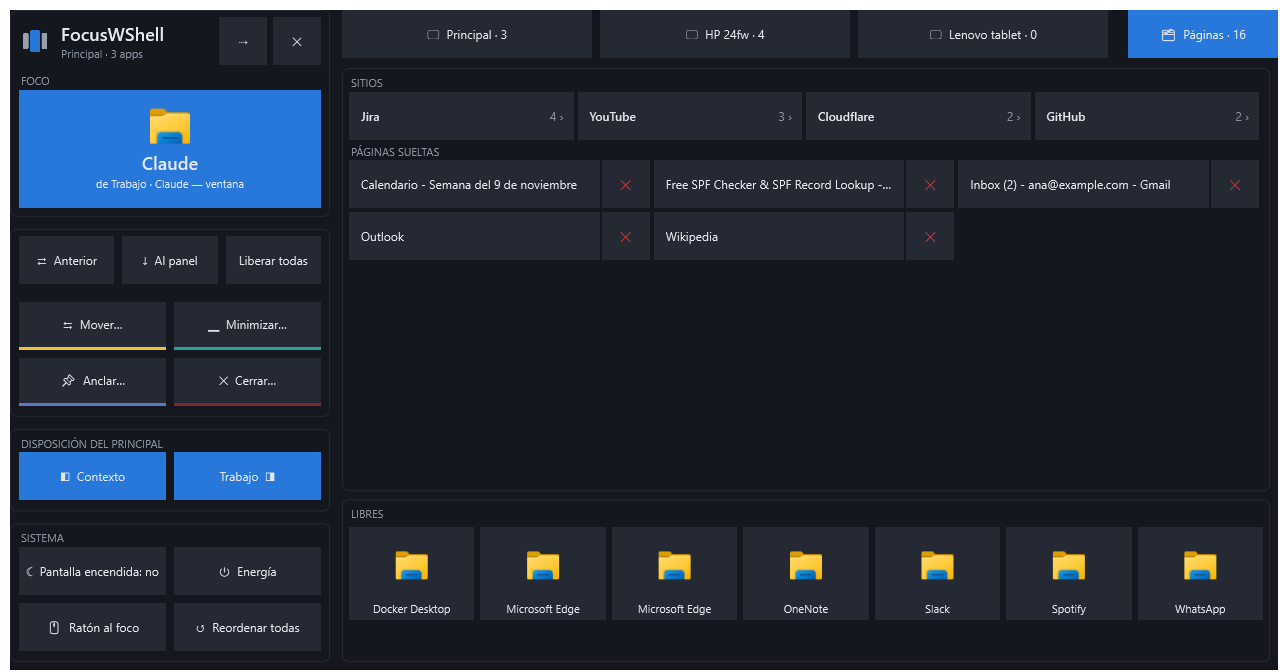
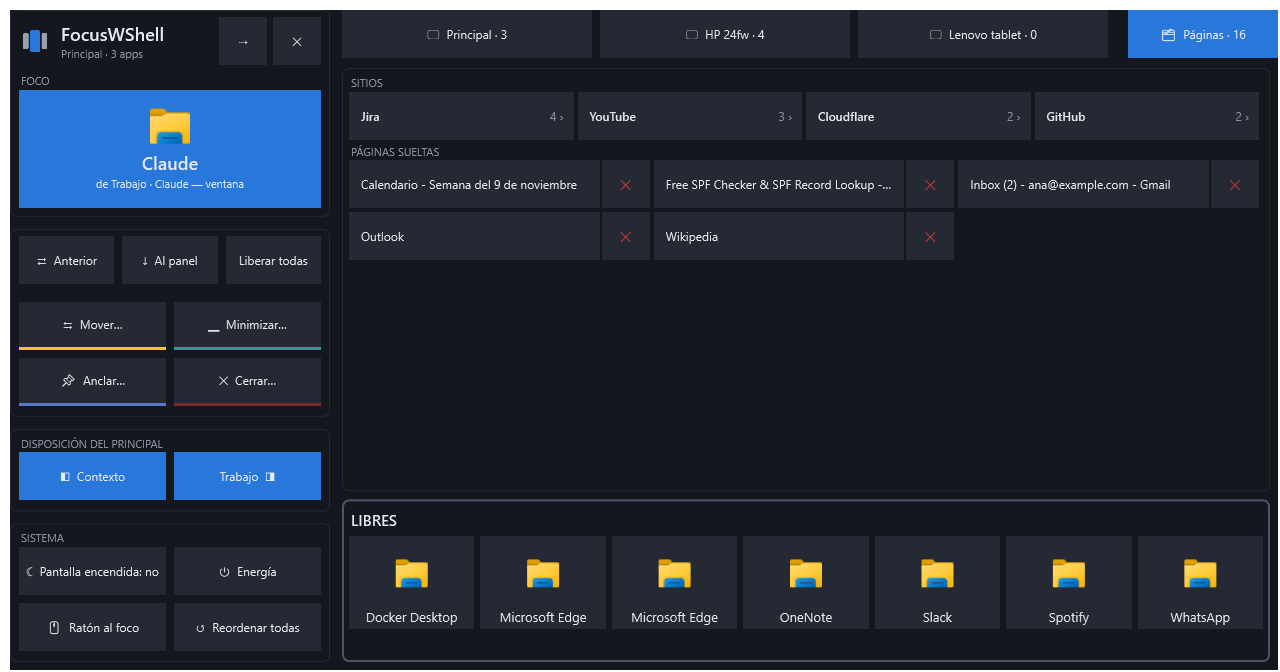
Alfa 0.3.1: las apps vuelven a sus paneles tras reiniciar
Versión 0.3.1-alpha, notas del release, CHANGELOG y capturas del deck renovadas en el sitio (bordes y letras nuevos).

diff --git a/.github/release-notes/v0.3.1-alpha.md b/.github/release-notes/v0.3.1-alpha.md
@@ -1,0 +1,69 @@
+**FocusWShell 0.3.1-alpha: your apps come back to their panels after restarting Windows.** [Español más abajo](#español).
+
+> **It moves your windows.** If anything goes wrong, **Ctrl+Alt+Shift+Backspace** puts every window back where it was, at any time.
+
+## What's fixed
+
+### After restarting Windows
+
+- **Apps go back to their panels.** When Windows shuts down, it closes your apps before FocusWShell, and FocusWShell kept saving the session with fewer and fewer apps. Now it saves the session as soon as shutdown starts, and not again. This works whether you shut down from Windows or from **Power** in the deck.
+- **Slow apps are not forgotten.** Apps that take a while to open, apps in the tray, and apps that swap their window while they start (like Docker Desktop) keep their panel.
+- **No more "FocusWShell was not closed properly"** after a restart. It only asks when there really are windows out of place.
+
+### The tablet's panels
+
+A tablet connected with **Apollo** gets a new ID every time it connects, so FocusWShell took it for a new monitor and its panels waited for the old one. Now a monitor of the same model that comes back with another ID is recognized, and its panels and the deck return to it. With two identical monitors, it does not guess.
+
+### Web apps from Chrome or Edge
+
+Apps installed from Chrome or Edge, like **Google Chat**, show with their own name instead of "Google Chrome". Tapping one when it's closed opens the app, not the browser.
+
+### The deck, easier to read
+
+Panel borders are easier to see, and panel and app names are bigger.
+
+## Install or update
+
+1. Download `FocusWShell-0.3.1-alpha-win-x64.zip` below.
+2. Extract it to a **new** folder and double-click **install.cmd**. If an earlier version is open, the installer closes it first (putting your windows back) and keeps your settings.
+
+Windows 10 (2004) or 11, 64-bit. No administrator rights; .NET is included. The files are not signed: if Windows shows *"Windows protected your PC"*, choose **More info → Run anyway**. Check the download with the `.sha256` file.
+
+New to FocusWShell? Start with **[Getting started](https://proteo5.github.io/FocusWShell/first-steps/)**. Known limitations: see [Known limitations](https://proteo5.github.io/FocusWShell/limitations/). Please report problems and ideas in [Issues](https://github.com/proteo5/FocusWShell/issues).
+
+---
+
+## Español
+
+**FocusWShell 0.3.1-alpha: tus apps vuelven a sus paneles después de reiniciar Windows.**
+
+> **Mueve tus ventanas.** Si algo sale mal, **Ctrl+Alt+Mayús+Retroceso** devuelve todas las ventanas a su sitio, en cualquier momento.
+
+### Correcciones
+
+#### Después de reiniciar Windows
+
+- **Las apps vuelven a sus paneles.** Al apagar, Windows cierra tus apps antes que FocusWShell, y FocusWShell seguía guardando la sesión con cada vez menos apps. Ahora la guarda en cuanto empieza el apagado, y ya no otra vez. Funciona igual si apagas desde Windows o desde **Energía** en el deck.
+- **Las apps lentas no se olvidan.** Las que tardan en abrirse, las de la bandeja y las que cambian de ventana al arrancar (como Docker Desktop) conservan su panel.
+- **Ya no sale «FocusWShell no se cerró adecuadamente»** después de un reinicio. Sólo pregunta cuando de verdad hay ventanas fuera de su sitio.
+
+#### Los paneles de la tablet
+
+Una tablet conectada con **Apollo** estrena identificador en cada conexión, así que FocusWShell la tomaba por un monitor nuevo y sus paneles se quedaban esperando a la anterior. Ahora reconoce un monitor del mismo modelo que vuelve con otro identificador, y le devuelve sus paneles y el deck. Con dos monitores iguales, no adivina.
+
+#### Apps web de Chrome o Edge
+
+Las apps instaladas desde Chrome o Edge, como **Google Chat**, salen con su nombre en lugar de «Google Chrome». Si está cerrada, al tocarla se abre la app, no el navegador.
+
+#### El deck, más fácil de leer
+
+Los bordes de los paneles se ven más, y los nombres de paneles y apps son más grandes.
+
+### Instalar o actualizar
+
+1. Descarga `FocusWShell-0.3.1-alpha-win-x64.zip` más abajo.
+2. Descomprímelo en una carpeta **nueva** y haz doble clic en **install.cmd**. Si hay una versión anterior abierta, el instalador la cierra antes (devolviendo tus ventanas) y conserva tu configuración.
+
+Windows 10 (2004) u 11, de 64 bits. Sin permisos de administrador; .NET va incluido. Los archivos no están firmados: si Windows muestra *«Windows protegió tu PC»*, elige **Más información → Ejecutar de todas formas**. Comprueba la descarga con el archivo `.sha256`.
+
+¿Nuevo en FocusWShell? Empieza por **[Primeros pasos](https://proteo5.github.io/FocusWShell/es/primeros-pasos/)**. Limitaciones conocidas: ver [Limitaciones conocidas](https://proteo5.github.io/FocusWShell/es/limitaciones/). Reporta problemas e ideas en [Issues](https://github.com/proteo5/FocusWShell/issues).

diff --git a/CHANGELOG.md b/CHANGELOG.md
@@ -4,13 +4,17 @@ All notable changes to FocusWShell. Each release has its notes in [`.github/rele
 
 Todos los cambios importantes de FocusWShell. Cada versión tiene sus notas en [`.github/release-notes/`](.github/release-notes/).
 
-## Unreleased / Sin publicar
+## 0.3.1-alpha
+
+Your apps come back to their panels after restarting Windows. / Tus apps vuelven a sus paneles después de reiniciar Windows.
 
 - Fixed: after restarting Windows, apps didn't go back to their panels. The session is now saved when shutdown starts, and not again while Windows closes the apps; it also keeps the apps that take a while to open, the ones in the tray, and the ones that swap their window at startup (Docker Desktop). / Corregido: tras reiniciar Windows, las apps no volvían a sus paneles. La sesión se guarda al empezar el apagado, y no otra vez mientras Windows cierra las apps; además conserva las apps que tardan en abrirse, las de la bandeja y las que cambian de ventana al arrancar (Docker Desktop).
 - Fixed: the panels of a tablet connected with Apollo disappeared, because it gets a new ID on every connection. A monitor of the same model that comes back with another ID is now recognized. / Corregido: los paneles de una tablet conectada con Apollo desaparecían, porque estrena identificador en cada conexión. Ahora se reconoce un monitor del mismo modelo que vuelve con otro.
 - Fixed: after a restart, FocusWShell no longer says it wasn't closed properly. / Corregido: tras un reinicio, FocusWShell ya no dice que no se cerró adecuadamente.
 - Web apps installed from Chrome or Edge (Google Chat) show with their own name and open themselves, not the browser. / Las apps web instaladas desde Chrome o Edge (Google Chat) salen con su nombre y se abren ellas, no el navegador.
 - The deck: panel borders easier to see, and bigger panel and app names. / El deck: bordes de los paneles más visibles, y nombres de paneles y apps más grandes.
+
+Notes / Notas: [v0.3.1-alpha](.github/release-notes/v0.3.1-alpha.md)
 
 ## 0.3.0-alpha
 

diff --git a/site/es/comentarios.md b/site/es/comentarios.md
@@ -12,7 +12,7 @@ permalink: /es/comentarios/
 
 Abre un issue en [github.com/proteo5/FocusWShell/issues](https://github.com/proteo5/FocusWShell/issues). Ayuda mucho incluir:
 
-- **La versión:** la primera línea del menú de la bandeja o General → Acerca de, por ejemplo *FocusWShell 0.3.0-alpha*.
+- **La versión:** la primera línea del menú de la bandeja o General → Acerca de, por ejemplo *FocusWShell 0.3.1-alpha*.
 - **Tus monitores:** cuántos, cuál es el principal, su resolución y su escala (Configuración → Sistema → Pantalla).
 - **Qué hiciste y qué pasó,** paso a paso.
 - **`errors.log`,** si existe, en `%LOCALAPPDATA%\FocusWShell`.

diff --git a/site/feedback.md b/site/feedback.md
@@ -12,7 +12,7 @@ permalink: /feedback/
 
 Open an issue at [github.com/proteo5/FocusWShell/issues](https://github.com/proteo5/FocusWShell/issues). It helps a lot to include:
 
-- **The version:** the first line of the tray menu or General → About, for example *FocusWShell 0.3.0-alpha*.
+- **The version:** the first line of the tray menu or General → About, for example *FocusWShell 0.3.1-alpha*.
 - **Your monitors:** how many, which one is the main one, their resolution and scaling (Settings → System → Display).
 - **What you did and what happened,** step by step.
 - **`errors.log`,** if it exists, in `%LOCALAPPDATA%\FocusWShell`.

diff --git a/site/es/instalar.md b/site/es/instalar.md
@@ -30,7 +30,7 @@ El instalador copia FocusWShell a `%LOCALAPPDATA%\Programs\FocusWShell`, lo aña
 Los archivos todavía no están firmados, así que Windows puede avisarte la primera vez, porque vienen de internet. Elige **Más información → Ejecutar de todas formas**. Puedes comprobar la descarga con el archivo `.sha256` que se publica junto al zip:
 
 ```powershell
-Get-FileHash .\FocusWShell-0.3.0-alpha-win-x64.zip -Algorithm SHA256
+Get-FileHash .\FocusWShell-0.3.1-alpha-win-x64.zip -Algorithm SHA256
 ```
 
 ## Iniciar con Windows

diff --git a/README.es.md b/README.es.md
@@ -32,7 +32,7 @@ Una ventana sólo cambia de lugar cuando tú lo decides. Hacer clic en el chat o
 
 ## Instalar
 
-1. Descarga `FocusWShell-0.3.0-alpha-win-x64.zip` desde [Releases](https://github.com/proteo5/FocusWShell/releases).
+1. Descarga `FocusWShell-0.3.1-alpha-win-x64.zip` desde [Releases](https://github.com/proteo5/FocusWShell/releases).
 2. Descomprime todo el zip y haz doble clic en **install.cmd**.
 3. FocusWShell se abre y aparece en la bandeja, junto al reloj. También está en el menú Inicio.
 

diff --git a/site/install.md b/site/install.md
@@ -30,7 +30,7 @@ The installer copies FocusWShell to `%LOCALAPPDATA%\Programs\FocusWShell`, adds 
 The files are not signed yet, so Windows may warn you the first time, because they come from the internet. Choose **More info → Run anyway**. You can check the download against the `.sha256` file published next to the zip:
 
 ```powershell
-Get-FileHash .\FocusWShell-0.3.0-alpha-win-x64.zip -Algorithm SHA256
+Get-FileHash .\FocusWShell-0.3.1-alpha-win-x64.zip -Algorithm SHA256
 ```
 
 ## Start with Windows

diff --git a/README.md b/README.md
@@ -32,7 +32,7 @@ A window only changes place when you decide. Clicking the chat or getting a noti
 
 ## Install
 
-1. Download `FocusWShell-0.3.0-alpha-win-x64.zip` from [Releases](https://github.com/proteo5/FocusWShell/releases).
+1. Download `FocusWShell-0.3.1-alpha-win-x64.zip` from [Releases](https://github.com/proteo5/FocusWShell/releases).
 2. Extract the whole zip and double-click **install.cmd**.
 3. FocusWShell opens and shows up in the tray, next to the clock. It is also in the Start menu.
 
